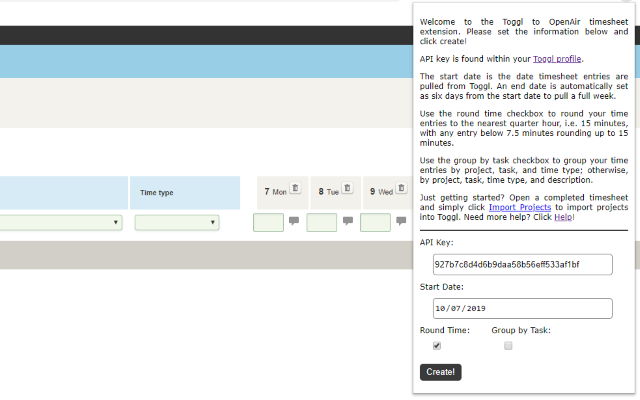
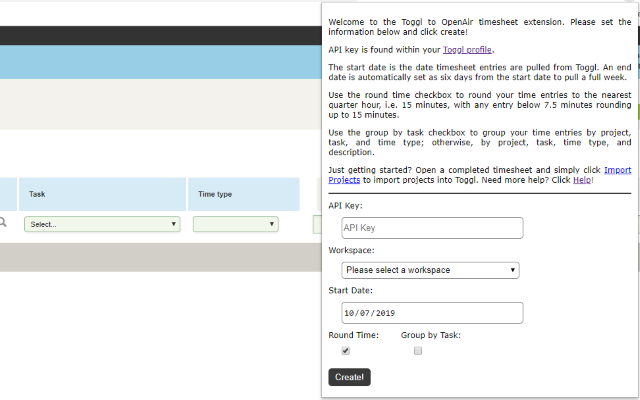
Added workspace selection

Changed region(s): [[0.0, 0.0, 1.0, 1.0]]

diff --git a/popup.js b/popup.js
@@ -23,15 +23,28 @@ function handlePromiseTransaction(work) {
     let apiKeyInput = document.getElementById("apiKey");
     apiKeyInput.addEventListener("change", function () {
         chrome.storage.sync.set({
-            apiKey: apiKey.value || ""
+            apiKey: apiKeyInput.value || ""
         });
+
+        setupWorkspaces(apiKeyInput.value);
     });
 
     chrome.storage.sync.get("apiKey", function (data) {
         let apiKeyValue = data.apiKey || "";
         if (apiKeyValue !== "") {
             apiKeyInput.value = apiKeyValue;
+
+            setupWorkspaces(apiKeyValue);
         }
+    });
+})();
+
+(function watchWorkspace() {
+    let workspaceSelect = document.getElementById("workspace");
+    workspaceSelect.addEventListener("change", function (arg1, arg2, arg3) {
+        chrome.storage.sync.set({
+            workspace: workspaceSelect.options[workspaceSelect.selectedIndex].value
+        });
     });
 })();
 
@@ -99,7 +112,7 @@ function handlePromiseTransaction(work) {
                     } else {
                         clientsToCopy = response.projects;
 
-                        return getTogglCredentials();
+                        return getTogglCredentials(getSelectedTogglWorkspace);
                     }
                 } else {
                     setError(response.message);
@@ -143,7 +156,7 @@ function handlePromiseTransaction(work) {
             setVisibility("loading", true);
             startPromiseTransaction();
 
-            getTogglCredentials().then(function (credentials) {
+            getTogglCredentials(getSelectedTogglWorkspace).then(function (credentials) {
                 if (credentials) {
                     let startDateCtrl = document.getElementById("startDate");
 
@@ -300,11 +313,11 @@ function postTogglData(url, apiKey, data) {
     });
 }
 
-function getTogglCredentials() {
+function getTogglCredentials(workspaceFunction) {
     let apiKeyInput = document.getElementById("apiKey");
     let apiKey = apiKeyInput.value;
 
-    return getDefaultTogglWorkspace(apiKey, getTogglWorkspace)
+    return getDefaultTogglWorkspace(apiKey, workspaceFunction)
         .then(function (workspaceId) {
             if (workspaceId) {
                 return { apiKey: apiKey, workspaceId: workspaceId };
@@ -314,6 +327,63 @@ function getTogglCredentials() {
         }, function (response, textStatus, errorThrown) {
             setError("Unable to get a default workspace => ", response.status, textStatus, errorThrown);
         });
+}
+
+function setupWorkspaces(apiKey) {
+    let workspaceSelect = document.getElementById("workspace");
+    if (workspaceSelect) {
+        for (let i = workspaceSelect.options.length - 1; i > 0; i--) {
+            workspaceSelect.options.remove(i);
+        }
+
+        startPromiseTransaction();
+
+        return getTogglWorkspaces(apiKey).then(handlePromiseTransaction(function (workspaces, textStatus, response) {
+            return new Promise(function(resolve) {
+                chrome.storage.sync.get("workspace", function (data) {
+                    let workspaceValue = data.workspace || "";
+
+                    for (let i = 0; i < workspaces.length; i++) {
+                        workspaces[i].default = workspaces[i].id == workspaceValue;
+                    }
+        
+                    resolve(workspaces);
+                });
+            });
+        }), function (response, textStatus, errorThrown) {
+                if (response.status === 403) {
+                    setError("Unable to login to Toggl.  Please verify API Key.");
+                } else {
+                    setError("Error getting workspaces => ", response.status, textStatus, errorThrown);
+                }
+
+                cancelPromiseTransaction();
+        }).then(handlePromiseTransaction(function(workspaces) {
+            if (workspaces.length == 0) {
+                setError("Unable to find a Toggl workspace");
+            } else {
+                for (let i = 0; i < workspaces.length; i++) {
+                    workspaceSelect.options.add(new Option(workspaces[i].name, workspaces[i].id, false, workspaces[i].default));
+                }
+
+                if (workspaceSelect.selectedIndex === 0 && workspaces.length === 1) {
+                    workspaceSelect.selectedIndex = 1;
+                    workspaceSelect.options[1].selected = true;
+                    if ("createEvent" in document) {
+                        var evt = document.createEvent("HTMLEvents");
+                        if (evt) {
+                            evt.initEvent("change", true, false);
+                            selected = workspaceSelect.dispatchEvent(evt);
+                        }
+                    } else if ("fireEvent" in workspaceSelect) {
+                        workspaceSelect.fireEvent("onchange");
+                    } else {
+                        console.log("Not sure how to call change on workspace select");
+                    }
+                }
+            }
+        }));
+    }
 }
 
 function getDefaultTogglWorkspace(apiKey, workspaceFunction) {
@@ -331,7 +401,11 @@ function getDefaultTogglWorkspace(apiKey, workspaceFunction) {
 
             return workspaceId;
         }, function (response, textStatus, errorThrown) {
-            setError("Error getting workspaces => ", response.status, textStatus, errorThrown);
+            if (response.status === 403) {
+                setError("Unable to login to Toggl.  Please verify API Key.");
+            } else {
+                setError("Error getting workspaces => ", response.status, textStatus, errorThrown);
+            }
         });
     } else {
         setError("workspaceFunction is not a function.  Please pass a function to get a Toggl workspace.");
@@ -340,7 +414,22 @@ function getDefaultTogglWorkspace(apiKey, workspaceFunction) {
     }
 }
 
-function getTogglWorkspace(apiKey) {
+function getSelectedTogglWorkspace() {
+    return new Promise(function (resolve) {
+        let workspaceSelect = document.getElementById("workspace");
+        if (workspaceSelect) {
+            if (workspaceSelect.selectedIndex === 0) {
+                setError("Please select a workspace");
+            } else {
+                return resolve([ { name: workspaceSelect.options[workspaceSelect.selectedIndex].text, id: workspaceSelect.options[workspaceSelect.selectedIndex].value } ]);
+            }
+        } else {
+            setError("Error gettings workspace");
+        }
+    });
+}
+
+function getTogglWorkspaces(apiKey) {
     return getTogglData("https://www.toggl.com/api/v8/workspaces", apiKey);
 }
 
@@ -590,7 +679,7 @@ function isEntryBillable(entry) {
         return true;
     } else {
         let reg = new RegExp(/\W*billable\W*/i);
-        
+
         return reg.test(entry.tags.join());
     }
 }

diff --git a/popup.html b/popup.html
@@ -3,7 +3,7 @@
     <head>
         <style>
             body {
-                width: 320px;
+                width: 460px;
                 height: 580px;
                 font-family: "Verdana", sans-serif;
                 padding: 10px;
@@ -72,7 +72,7 @@
                 display: block;
             }
 
-            input {
+            input, select {
                 width: 270px;
                 border-radius: 5px;
                 border: solid 1px #7F7F7F;
@@ -115,6 +115,10 @@
         <div class="form">
             <label for="apiKey">API Key:</label>
             <input id="apiKey" placeholder="API Key" type="text">
+            <label for="workspace">Workspace:</label>
+            <select id="workspace" placeholder="Workspace">
+                <option>Please select a workspace</option>
+            </select>
             <label for="startDate">Start Date:</label>
             <input id="startDate" type="date">
             <div class="group">
